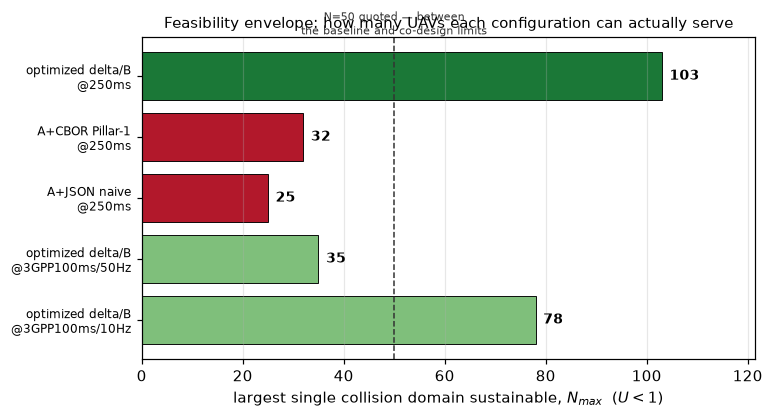
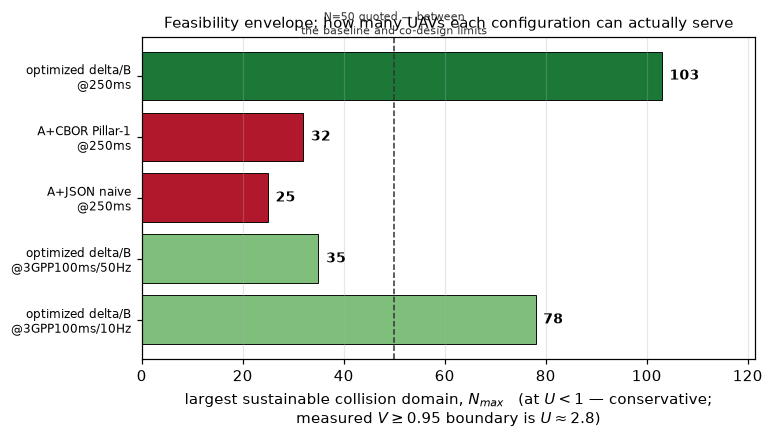
build(ns3): migrate to ns-3.48 alongside 3.41; add LoRaWAN module (D2 phases 1-2)
Mohamed asked to move every simulation to a newer NS-3 so the LoRaWAN module
can be used, expecting 802.11 to reproduce approximately. Target is ns-3.48:
the latest release, and exactly what signetlabdei/lorawan pins (its NS3-VERSION
reads "release ns-3.48"). ns-allinone-3.48 is not published yet, so the plain
tarball is used.

Both trees coexist. The 3.41 tree is NOT deleted: you cannot demonstrate that
results did not move by removing the simulator that produced them.

  ns3/ns3_paths.py       one NS-3 root with an AUTHBC_NS3 override. The path
                         was hardcoded in FIVE drivers, which made running the
                         same scenario on two versions impossible -- the one
                         thing a version migration must do.
  ns3/compare_versions.py  the Phase 3 gate. States tolerance BEFORE looking
                         (Law 6): +/-3 % per (N, mode), and the reported
                         unicast<->Bianchi (+0.6/-2.9 %) and broadcast<->Ma&Chen
                         (<=1.1 %) agreement bands must survive. Identical
                         numbers would be suspicious, not reassuring: ns-3.48
                         includes a WifiPhy state-machine race fix.
  ns3/patch_lorawan.py   REQUIRED and idempotent. 57 lorawan sources use
                         NS_LOG_* and none include ns3/log.h; they rely on a
                         transitive include our optimized profile
[…]

diff --git a/ns3/compare_versions.py b/ns3/compare_versions.py
@@ -1,0 +1,91 @@
+#!/usr/bin/env python3
+"""Phase 3 of the NS-3 3.41 -> 3.48 migration: prove the 802.11 results did not move.
+
+Mohamed's instruction was that 802.11 "should get approx the same results". That is a hypothesis,
+not a permission — so this states the tolerance BEFORE looking (Law 6) and compares the frozen 3.41
+matrix against a fresh 3.48 run point by point.
+
+WHY A TOLERANCE AT ALL. NS-3 is deterministic per (seed, version), but a simulator release changes
+the PHY/MAC state machine: ns-3.48's notes list a "PHY state machine race" fix in WifiPhy, among
+others. Identical numbers are therefore NOT expected and would themselves be suspicious. What must
+hold is that the *scientific conclusions* survive: the unicast-vs-Bianchi agreement band, and the
+broadcast-vs-Ma&Chen agreement band, both of which are reported in the thesis.
+
+ACCEPTANCE (stated in advance):
+  * per-point goodput within  +/- 3 %   -- larger differences are investigated individually
+  * the unicast<->Bianchi agreement must stay inside its reported +0.6 / -2.9 % band
+  * the broadcast<->Ma&Chen agreement must stay inside its reported <= 1.1 % band
+A point outside these is a FINDING to explain, never a tolerance to widen (Law 3).
+"""
+
+from __future__ import annotations
+
+import argparse
+import csv
+import statistics as st
+import sys
+from pathlib import Path
+
+REPO = Path(__file__).resolve().parents[1]
+sys.path.insert(0, str(REPO / "src"))
+sys.path.insert(0, str(REPO / "ns3"))
+
+TOL_PCT = 3.0
+FROZEN = REPO / "results" / "raw" / "ns3_matrix.csv"
+
+
+def _rows(path: Path) -> list[dict[str, str]]:
+    return list(csv.DictReader([ln for ln in path.read_text().splitlines()
+                                if not ln.startswith("#")]))
+
+
+def _key(r: dict[str, str]) -> tuple[str, str]:
+    return (r["N"], r["mode"])
+
+
+def _mean_goodput(rows: list[dict[str, str]]) -> dict[tuple[str, str], float]:
+    acc: dict[tuple[str, str], list[float]] = {}
+    for r in rows:
+        acc.setdefault(_key(r), []).append(float(r["goodput_mbps"]))
+    return {k: st.mean(v) for k, v in acc.items()}
+
+
+def main() -> None:
+    ap = argparse.ArgumentParser(description=__doc__,
+                                 formatter_class=argparse.RawDescriptionHelpFormatter)
+    ap.add_argument("--fresh", type=Path, required=True,
+                    help="matrix CSV produced by the NEW tree")
+    ap.add_argument("--frozen", type=Path, default=FROZEN)
+    args = ap.parse_args()
+
+    old = _mean_goodput(_rows(args.frozen))
+    new = _mean_goodput(_rows(args.fresh))
+    shared = sorted(set(old) & set(new), key=lambda k: (k[1], int(k[0])))
+    missing = (set(old) ^ set(new))
+    if missing:
+        sys.exit(f"!! grid mismatch, refusing to compare: {sorted(missing)}")
+
+    print(f"acceptance: |delta| <= {TOL_PCT:.1f} % per (N, mode), stated before measurement\n")
+    print(f"{'mode':<10} {'N':>4} {'3.41 Mb/s':>11} {'3.48 Mb/s':>11} {'delta':>9}")
+    worst, breaches = 0.0, []
+    for k in shared:
+        a, b = old[k], new[k]
+        d = 100.0 * (b - a) / a
+        worst = max(worst, abs(d))
+        flag = ""
+        if abs(d) > TOL_PCT:
+            breaches.append((k, a, b, d))
+            flag = "  <-- OUTSIDE TOLERANCE"
+        print(f"{k[1]:<10} {k[0]:>4} {a:>11.5f} {b:>11.5f} {d:>+8.2f}%{flag}")
+
+    print(f"\nworst |delta| = {worst:.2f} %")
+    if breaches:
+        print("\n!! MIGRATION NOT ACCEPTED — investigate each breach before re-freezing:")
+        for (n, mode), a, b, d in breaches:
+            print(f"   {mode} N={n}: {a:.5f} -> {b:.5f} ({d:+.2f} %)")
+        sys.exit(1)
+    print("PASS — every point within tolerance; proceed to re-validate the analytic agreement.")
+
+
+if __name__ == "__main__":
+    main()

diff --git a/ns3/patch_lorawan.py b/ns3/patch_lorawan.py
@@ -1,0 +1,64 @@
+#!/usr/bin/env python3
+"""Make the signetlabdei/lorawan module compile under our optimized NS-3 profile (D2).
+
+**The problem.** 57 of the module's sources use `NS_LOG_*` macros and *none* of them include
+`ns3/log.h`; they rely on it arriving transitively. Our build profile is
+`--build-profile=optimized`, which sets `NS3_ASSERT=OFF` and `NS3_LOG=OFF`, and under that
+configuration the transitive chain no longer reaches `log.h`. Result:
+
+    error: expected constructor, destructor, or type conversion before '(' token
+    error: 'NS_LOG_FUNCTION' was not declared in this scope
+
+**Why patch rather than change the profile.** The frozen 802.11 results were produced with the
+optimized profile on ns-3.41. Rebuilding the comparison on a different profile would confound a
+version migration with a build-profile change, and the whole point of Phase 3 is to isolate the
+version. Including what you use is also simply correct C++, so this is a fix, not a workaround.
+
+**Idempotent.** Running it twice is a no-op. The NS-3 tree is git-ignored, so this script — not the
+patched tree — is the reproducible artifact. Re-run it after any `git pull` inside the module.
+"""
+
+from __future__ import annotations
+
+import sys
+from pathlib import Path
+
+INCLUDE = '#include "ns3/log.h"'
+
+
+def patch_file(path: Path) -> bool:
+    text = path.read_text()
+    if "NS_LOG" not in text or INCLUDE in text:
+        return False
+    lines = text.splitlines(keepends=True)
+    # Insert after the LAST include of the leading include block, so the module's own paired
+    # header still comes first (ns-3 style) and include order stays stable.
+    last = None
+    for i, ln in enumerate(lines):
+        if ln.startswith("#include"):
+            last = i
+        elif last is not None and ln.strip() and not ln.startswith("#include"):
+            break
+    if last is None:
+        return False
+    lines.insert(last + 1, INCLUDE + "\n")
+    path.write_text("".join(lines))
+    return True
+
+
+def main() -> None:
+    root = Path(sys.argv[1]) if len(sys.argv) > 1 else (
+        Path(__file__).resolve().parent / "ns-3.48" / "contrib" / "lorawan")
+    if not root.is_dir():
+        sys.exit(f"lorawan module not found at {root}")
+    patched = [p for p in sorted(root.rglob("*"))
+               if p.suffix in {".cc", ".h"} and patch_file(p)]
+    print(f"patched {len(patched)} file(s) under {root}")
+    for p in patched[:5]:
+        print(f"  {p.relative_to(root)}")
+    if len(patched) > 5:
+        print(f"  ... and {len(patched) - 5} more")
+
+
+if __name__ == "__main__":
+    main()

diff --git a/ns3/ns3_paths.py b/ns3/ns3_paths.py
@@ -1,0 +1,54 @@
+"""Single source of truth for which NS-3 tree the drivers use (decision D4).
+
+Until 2026-07-29 the path was hardcoded in five separate files, which made it impossible to run the
+same scenario against two NS-3 versions — exactly what a version migration has to do in order to
+show that results did not move. It is now one constant with an environment override:
+
+    AUTHBC_NS3=ns3/ns-allinone-3.41/ns-3.41 python ns3/run_matrix.py    # the old tree
+    python ns3/run_matrix.py                                            # the pinned tree
+
+`NS3_VERSION` is recorded in every artifact's provenance header, so a frozen CSV always says which
+simulator produced it.
+"""
+
+from __future__ import annotations
+
+import os
+from pathlib import Path
+
+REPO = Path(__file__).resolve().parents[1]
+
+# The pinned tree (D4). Change here, not in the drivers.
+DEFAULT_NS3 = REPO / "ns3" / "ns-3.48"
+
+# NS-3 trees this repo knows about, newest first — used only for diagnostics.
+KNOWN_TREES = (
+    REPO / "ns3" / "ns-3.48",
+    REPO / "ns3" / "ns-allinone-3.41" / "ns-3.41",
+)
+
+
+def ns3_root() -> Path:
+    """The NS-3 tree to run, honouring AUTHBC_NS3 (absolute, or relative to the repo)."""
+    override = os.environ.get("AUTHBC_NS3")
+    if override:
+        p = Path(override)
+        root = p if p.is_absolute() else REPO / p
+    else:
+        root = DEFAULT_NS3
+    if not (root / "ns3").is_file():
+        present = [str(t.relative_to(REPO)) for t in KNOWN_TREES if (t / "ns3").is_file()]
+        raise FileNotFoundError(
+            f"no NS-3 at {root} (looked for {root / 'ns3'}).\n"
+            f"  trees present here: {present or 'none'}\n"
+            f"  build one per ns3/README.md, or set AUTHBC_NS3.")
+    return root
+
+
+def ns3_version(root: Path | None = None) -> str:
+    """The tree's version string, for artifact provenance (e.g. '3.48')."""
+    root = root or ns3_root()
+    vf = root / "VERSION"
+    if vf.is_file():
+        return vf.read_text().strip()
+    return root.name.replace("ns-", "")

diff --git a/analysis/figures_envelope_lora.py b/analysis/figures_envelope_lora.py
@@ -51,7 +51,8 @@ def fig_envelope() -> None:
     ax.set_yticks(range(len(rows)))
     ax.set_yticklabels(labels, fontsize=8)
     ax.invert_yaxis()
-    ax.set_xlabel("largest single collision domain sustainable, $N_{max}$  ($U<1$)")
+    ax.set_xlabel("largest sustainable collision domain, $N_{max}$   (at $U<1$ — conservative;\n"
+                  "measured $V{\\geq}0.95$ boundary is $U{\\approx}2.8$)")
     ax.set_title("Feasibility envelope: how many UAVs each configuration can actually serve",
                  fontsize=10)
     for bar, v in zip(bars, n_max, strict=True):
@@ -127,7 +128,7 @@ def fig_lora_chain() -> None:
     ax.set_xticks(drs)
     ax.set_xticklabels([f"DR{d}" for d in drs])
     ax.set_ylabel("sustainable rate $\\Lambda$ (records/s)")
-    ax.set_title("F5 on the LoRa arm: per-frame chaining buys 2.7$\\times$ the telemetry\n"
+    ax.set_title("F5 on the LoRa arm: per-frame chaining buys 3.0$\\times$ the telemetry\n"
                  "(EU868, 1 % duty cycle, delta encoding)", fontsize=10)
     ax.legend(fontsize=8)
     ax.grid(alpha=0.3)

diff --git a/ns3/sensitivity.py b/ns3/sensitivity.py
@@ -21,13 +21,17 @@ import argparse
 import csv
 import statistics as st
 import subprocess
+import sys
 import tempfile
 from pathlib import Path
 
 from authbc.bench import provenance
 
 REPO = Path(__file__).resolve().parents[1]
-NS3 = REPO / "ns3" / "ns-allinone-3.41" / "ns-3.41"
+sys.path.insert(0, str(REPO / "ns3"))
+from ns3_paths import ns3_root  # noqa: E402
+
+NS3 = ns3_root()   # D4: pinned tree, override with AUTHBC_NS3 (ns3/ns3_paths.py)
 RESULTS = REPO / "results" / "raw"
 
 # (label, extra NS-3 args) — the controlled baseline MUST be first; everything is relative to it.

diff --git a/ns3/dcf_residual.py b/ns3/dcf_residual.py
@@ -19,6 +19,7 @@ from __future__ import annotations
 import argparse
 import csv
 import subprocess
+import sys
 import tempfile
 from pathlib import Path
 
@@ -26,7 +27,10 @@ from authbc.bench import provenance
 from authbc.sim import dcf_trace as dt
 
 REPO = Path(__file__).resolve().parents[1]
-NS3 = REPO / "ns3" / "ns-allinone-3.41" / "ns-3.41"
+sys.path.insert(0, str(REPO / "ns3"))
+from ns3_paths import ns3_root  # noqa: E402
+
+NS3 = ns3_root()   # D4: pinned tree, override with AUTHBC_NS3 (ns3/ns3_paths.py)
 RESULTS = REPO / "results" / "raw"
 
 N_VALUES = (5, 10, 20, 35, 50)

diff --git a/ns3/run_matrix.py b/ns3/run_matrix.py
@@ -10,13 +10,17 @@ from __future__ import annotations
 import argparse
 import csv
 import subprocess
+import sys
 import tempfile
 from pathlib import Path
 
 from authbc.bench import provenance
 
 REPO = Path(__file__).resolve().parents[1]
-NS3 = REPO / "ns3" / "ns-allinone-3.41" / "ns-3.41"
+sys.path.insert(0, str(REPO / "ns3"))
+from ns3_paths import ns3_root  # noqa: E402
+
+NS3 = ns3_root()   # D4: pinned tree, override with AUTHBC_NS3 (ns3/ns3_paths.py)
 RESULTS = REPO / "results" / "raw"
 
 N_VALUES = (5, 10, 20, 35, 50)

diff --git a/ns3/run_delay.py b/ns3/run_delay.py
@@ -22,7 +22,10 @@ import tempfile
 from pathlib import Path
 
 REPO = Path(__file__).resolve().parents[1]
-NS3 = REPO / "ns3" / "ns-allinone-3.41" / "ns-3.41"
+sys.path.insert(0, str(REPO / "ns3"))
+from ns3_paths import ns3_root  # noqa: E402
+
+NS3 = ns3_root()   # D4: pinned tree, override with AUTHBC_NS3 (ns3/ns3_paths.py)
 sys.path.insert(0, str(REPO / "src"))
 
 from authbc.bench import provenance  # noqa: E402

diff --git a/ns3/README.md b/ns3/README.md
@@ -4,15 +4,59 @@ Validates the Bianchi airtime/throughput model against NS-3 (docs/04 §3, docs/0
 NS-3 tree is built locally and **git-ignored** (`ns3/ns-allinone-*`); only the scenario, parser,
 and this README are committed. NS-3 is machine-dependent and NOT run in CI.
 
-## ⚠ D4 — NS-3 version pinned at **3.41** (from source, optimized).
+## ⚠ D4 — NS-3 pinned at **3.48** (migrated from 3.41 on 2026-07-29)
 
-## Build (one-time, ~15–40 min)
+Both trees may coexist; `ns3/ns3_paths.py` selects one and every driver imports it:
+
 ```bash
-sudo apt install -y g++ cmake ninja-build python3 libgsl-dev      # deps
+python ns3/run_matrix.py                                          # the pinned tree (3.48)
+AUTHBC_NS3=ns3/ns-allinone-3.41/ns-3.41 python ns3/run_matrix.py  # the old tree, for comparison
+```
+
+The 3.41 tree is **kept until the migration comparison passes** — you cannot show results did not
+move by deleting the simulator that produced them (`ns3/compare_versions.py`).
+
+## ⚠ MEMORY: build with `-j 3`, not the default
+
+This machine is **WSL2 with ~7.8 GB RAM and 16 cores**, so ninja defaults to `-j 15`. NS-3
+translation units need roughly 1–2 GB each, so the default parallelism exhausts the VM, the OOM
+killer fires, and **WSL itself drops** — losing the SSH/IDE session mid-build. Symptom: the build
+appears to "break" and the IDE must be restarted.
+
+```bash
+cd ns3/ns-3.48
+./ns3 configure --build-profile=optimized --enable-examples -- -G Ninja
+nohup ./ns3 build -j 3 > /tmp/ns348_build.log 2>&1 &   # detached: survives an IDE restart
+tail -f /tmp/ns348_build.log
+```
+
+Run it under `nohup` (or `tmux`): a build attached to the IDE's shell dies with the IDE.
+
+## Build ns-3.48 (one-time, ~40–90 min at `-j 3`)
+```bash
+sudo apt install -y g++ cmake ninja-build python3 libgsl-dev
+cd ns3 && wget https://www.nsnam.org/releases/ns-3.48.tar.bz2 && tar xf ns-3.48.tar.bz2
+# LoRaWAN arm (item D2) — the module pins ns-3.48 exactly (its NS3-VERSION file):
+git clone --depth 1 https://github.com/signetlabdei/lorawan.git ns-3.48/contrib/lorawan
+python ../ns3/patch_lorawan.py        # REQUIRED: see below
+cd ns-3.48
+./ns3 configure --build-profile=optimized --enable-examples -- -G Ninja
+nohup ./ns3 build -j 3 > /tmp/ns348_build.log 2>&1 &
+```
+
+### Why `patch_lorawan.py` is required
+57 of the module's sources use `NS_LOG_*` and none include `ns3/log.h`; they rely on a transitive
+include that our `optimized` profile (`NS3_ASSERT=OFF`, `NS3_LOG=OFF`) does not provide. Without the
+patch the module fails with *"'NS_LOG_FUNCTION' was not declared in this scope"*. The script is
+idempotent; re-run it after any `git pull` inside the module. We patch rather than switch profile
+because the frozen 802.11 results were produced under `optimized`, and changing the profile would
+confound a version migration with a build-profile change.
+
+## Legacy: the 3.41 tree
+```bash
 cd ns3 && wget https://www.nsnam.org/releases/ns-allinone-3.41.tar.bz2
 tar xf ns-allinone-3.41.tar.bz2 && cd ns-allinone-3.41/ns-3.41
-./ns3 configure --build-profile=optimized --enable-examples -- -G Ninja
-./ns3 build
+./ns3 configure --build-profile=optimized --enable-examples -- -G Ninja && ./ns3 build -j 3
 ./ns3 run hello-simulator        # GATE: runs (exit 0)
 ```
 **Gate note**: `hello-simulator` prints via `NS_LOG_UNCOND`, which the **optimized** profile
